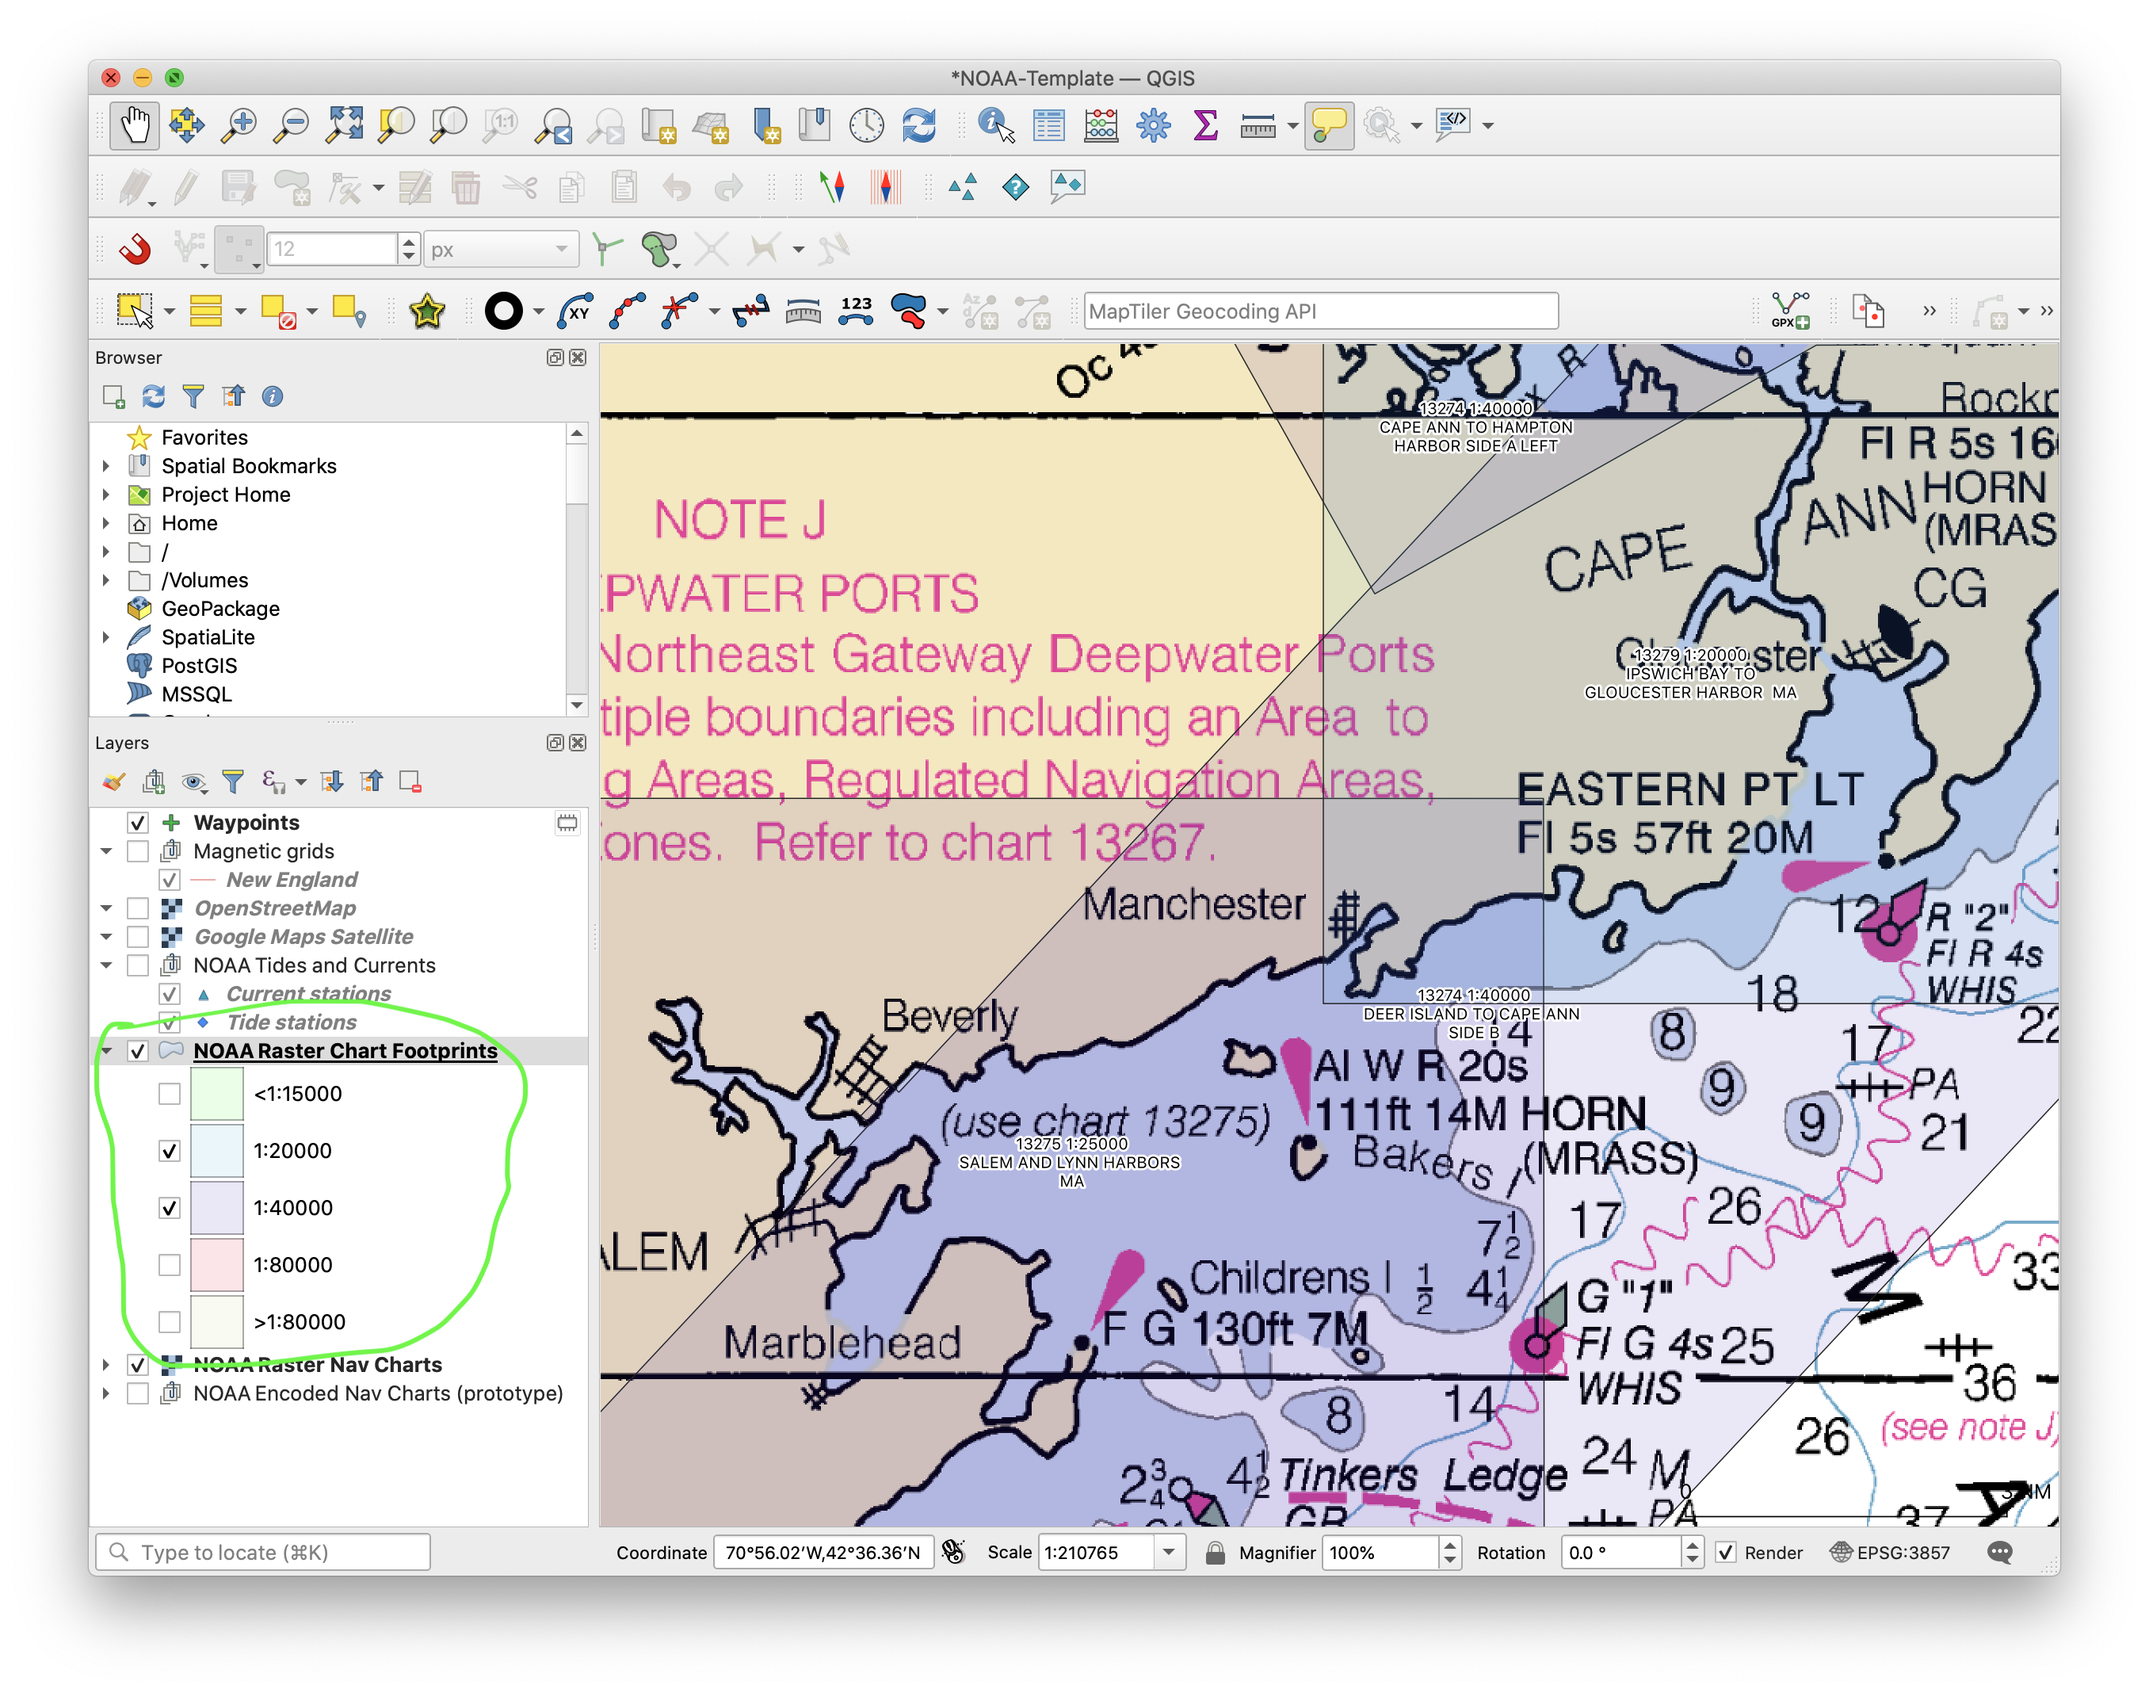
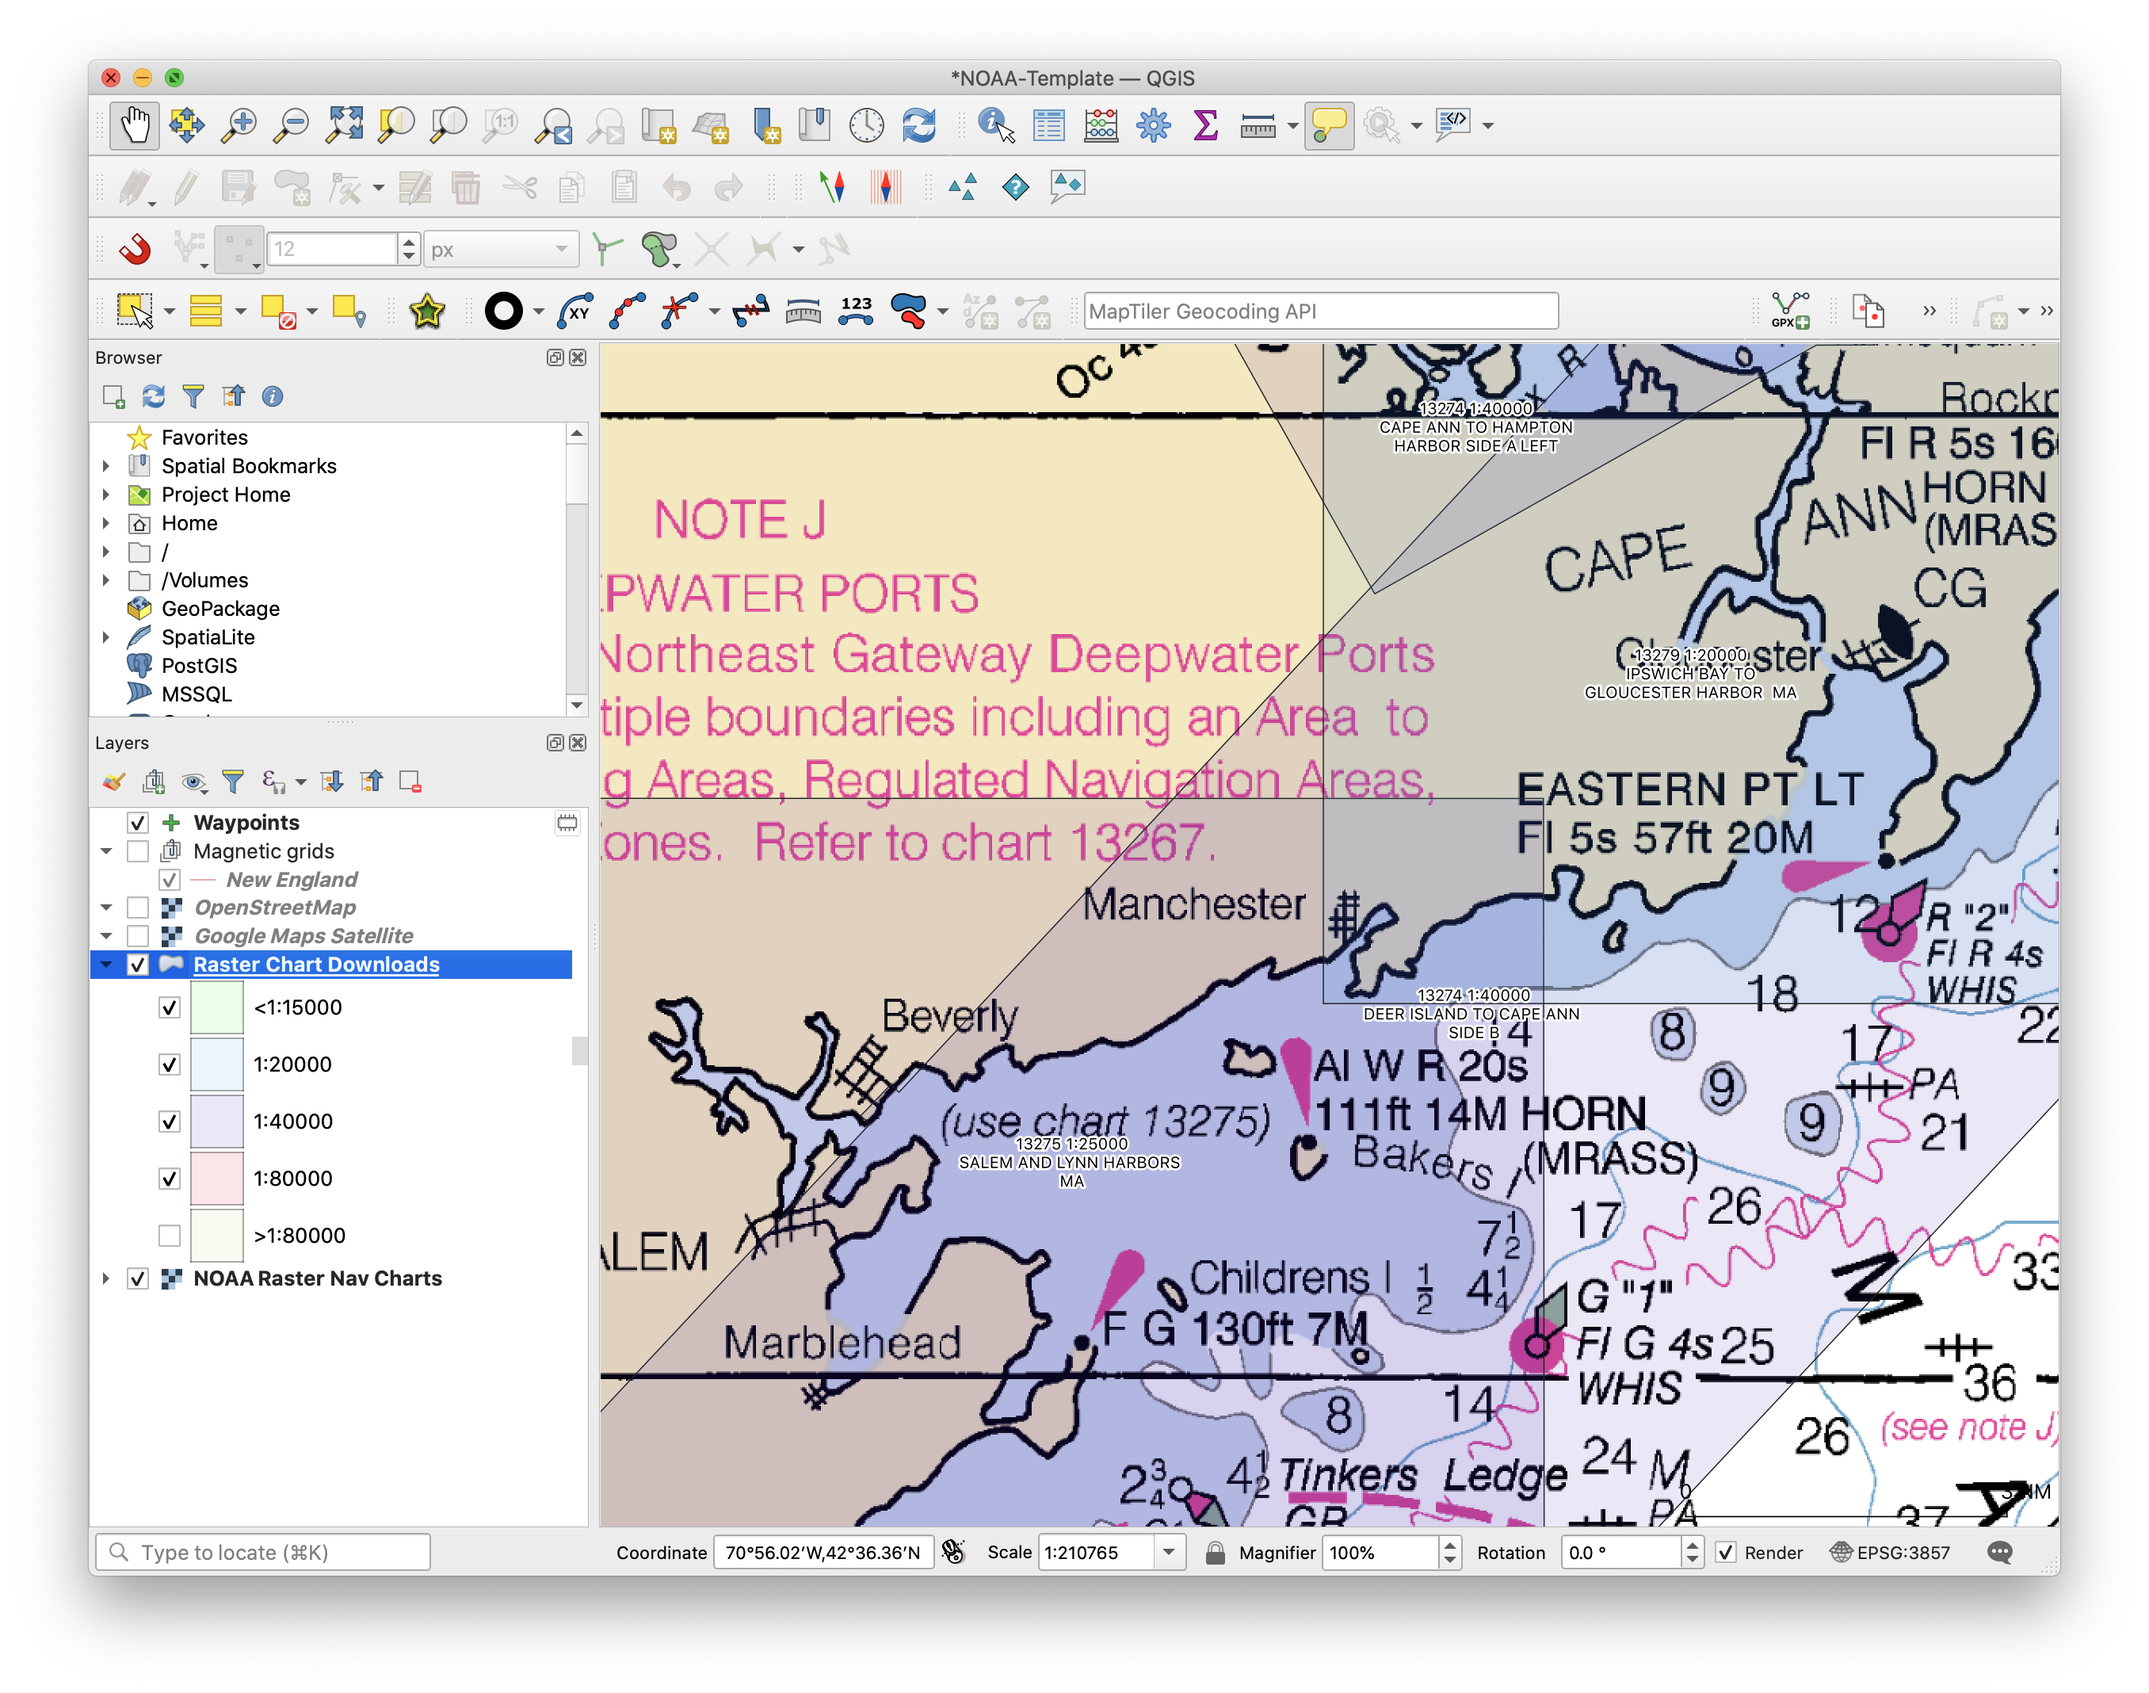
Clarify/adjust documentation for new chart download technique.

Changed region(s): [[0.031, 0.5253, 0.2788, 0.8343]]

diff --git a/index.md b/index.md
@@ -33,9 +33,12 @@ scale bar, and lat/long grid.
 specific NOAA charts in a georeferenced format, with various scales for chart
 preparation.
 
-**[Download NSPN-Workshop-Template-2.qgz](NSPN-Workshop-Template-2.qgz)**
+**[Download NOAA-Template.qgz](NOAA-Template.qgz)**
 
-*Note: at present the template is geared to the New England area.*
+*Note: if the above template does not load, it may be due to an outage in NOAA's
+Seamless RNC web service. If so, [this template](NSPN-Workshop-Template-2.qgz)
+can be used instead although it is limited to the New England area.*
+
 
 ## Quick guide to making raster charts
 
@@ -122,9 +125,12 @@ mouse to move it around. You can also drag the map without clicking by holding
 down the spacebar at the same time, which is useful when you're using a tool
 other than the Pan tool.
 
-On a mouse that has a scroll wheel, the wheel lets you zoom in and out.
-On trackpads, drag two fingers vertically up or down over the map to zoom in
-and out. Hold down Command (Mac) or Alt (Windows) to zoom more slowly.
+To zoom the map in and out, use exactly the same technique you would use to
+scroll any window up (zooming out) or down (zooming out). This technique
+varies from computer to computer. On most trackpads, dragging two fingers up
+or down works for this. On a mouse that has a mechanical scroll wheel, the
+wheel does the trick. Hold down Command (Mac) or Alt (Windows) to zoom more
+slowly.
 
 You can also type a scale directly into the **Scale** control at the bottom of the window.
 
@@ -157,7 +163,7 @@ actually look like.
 over a station will display the station name and a link to its NOAA home page
 where tide or current predictions can be viewed.
 
-- *RNC Chart Downloads* show the locations of various NOAA printed
+- *Raster Chart Downloads* show the locations of various NOAA printed
 charts at different scales. You can use these to preview and download charts
 for inclusion in your maps.
 
@@ -166,16 +172,6 @@ nautical charts, which is automatically downloaded from NOAA web servers. You
 do not need to download any files to see these tiles. The type of the chart that is
 displayed (e.g. general, coastal, harbor) depends on the scale at which you
 are viewing this layer.
-
-(The most reliable version of this layer is packaged in the template. For a higher-resolution
-version using NOAA's Seamless RNC Service, you may download [this layer definition](layers/SeamlessRNCCharts.qlr)
-and add it to your project using **Layer > Add from Layer Definition File...**.
-
-- *NOAA Encoded Nav Charts* layer (CURRENTLY UNAVAILABLE). This is a prototype layer showing NOAA's new
-encoded navigational charts (ENC). Some version of this will eventually replace the
-more familiar raster charts. For now, it's more of a curiosity than something
-useful. It has a number of independent sub-layers that can be switched on and
-off.
 
 The order of the layers is important, as layers on top can obscure layers on
 the bottom. They can be dragged around and reordered. They are also placed in
@@ -248,8 +244,10 @@ wrong area: it will display whatever was originally put into the premade
 layout. Your first step is to make it show the same area as the main map.
 
 Begin by clicking the map to select it, and then open the **Item Properties**
-tab in the panel on the right (circled in the figure below). Your layout
-window should now look something like this:
+tab in the panel on the right (circled in the figure below). (The first time
+you select the map, you may not have an Item Properties tab -- if so, then
+right-click the map and select *Item Properties...* from the popup menu.) Your
+layout window should now look something like this:
 
 ![Layout](guide/images/Layout.png)
 
@@ -322,28 +320,35 @@ the crispest and sharpest possible resolution in your final printout.
 
 You can easily preview, download and include any NOAA chart into QGIS in a way
 that will automatically fit them together seamlessly. Begin the process by
-activating the *RNC Chart Downloads* layer by checking its visibility box, and
-clicking its name.
+activating the *Raster Chart Downloads* layer by checking its visibility box, and
+clicking its name. Click the little triangle to expand the choices of chart scales.
+Your screen should look like this:
+
+![footprints](guide/images/ChartFootprints.png)
 
 Next, use **View > Identify Features** to switch the mouse cursor to the
 *Identify* tool, which lets you interact with specific chart download
-footprints. With this tool, *right-click* the map you want to download. You
-will be given a choice of Preview or Download.
+footprints. With this tool, *right-click* the chart you want to download. You
+will see a menu offering a choice of charts; for each chart, there is a
+sub-choice of Preview Chart or Download Chart Layer:
 
-It's a good idea to preview first to make sure you know what you are getting,
-as the files are large and may take some time to download.
+![identify](guide/images/IdentifyFootprint.png)
 
-Once you download a layer, a box will come up to show you the progress of the download.
-When completed, the downloaded map file will be saved in the same directory
-as your QGIS project and a brand new map layer will be added to your project. 
+It's a good idea to Preview first to make sure you know what you are getting,
+as the chart images are large can take some time to download and process.
 
-At this point, turn OFF the regular NOAA Charts and Footprints layers, and
+When you choose Download, a box will come up to show you the progress of the download.
+You will also have to click through a number of other steps that take a bit of time.
+When completed, the downloaded map file will be saved in a folder alongside your
+your QGIS project named `NOAA-raster/`, and a brand new map layer will be added to your project. 
+
+At this point, turn OFF the regular NOAA Charts and Downloads layers, and
 zoom into the area of interest. Now go about making a print layout in the
 exact same way you did before: the procedure is identical, except that now you
 are using a different layer for the map.
 
-Don't forget to save the project or you will have to add the map again (you do not
-need to download it again, but can use **Layer > Add Layer > Add Raster Layer...**).
+Don't forget to save the project or you will have to add the map again (although it
+will come up much faster the second time).
 
 ### Adding markers or waypoints
 
@@ -427,73 +432,6 @@ Now your map will include the locations of all US wind turbines. You can also
 use advanced features of QGIS like the Identify tool to look up information
 about the turbines like their height, their location, their names and so
 forth. Learning how to do this with QGIS is a worthwhile exercise.
-
-### Downloading your own RNC charts from NOAA
-
-The downloadable charts in this project are currently limited to only certain
-regions. You can also download any NOAA RNC chart from their
-[Interactive Chart Catalog](https://www.charts.noaa.gov/InteractiveCatalog/nrnc.shtml) by
-going to the Paper Charts tab, selecting a chart, and then clicking **RNC** at
-the bottom right. You will get a .zip file that unpacks to include one or more
-`BSB_ROOT/xxxxx_x.KAP` files which can be loaded into QGIS directly. However,
-these downloaded image include non-map stuff like the frame, lat/long tick
-marks and labels, copyright text and blank margins. These get in the way of
-the map if you are working near its edge, or are combining multiple charts
-into one map. They can be removed by cropping the chart as described here.
-
-Zoom and pan the map so that only the portion of the chart you want is
-visible. Resizing the window may help you get the map into the correct shape. 
-Select the chart's layer and choose **Layer > Save As...** from the menu.
-
-Perform these steps:
-
-1. Select the radio button at the top marked *Rendered
-Image*.
-
-1. Click the "..." button to the right of the *File name* field, and
-choose the name of a file to save the cropped chart to.
-
-1. Click the *Map Canvas Extent* button which crops the chart to the size of the map view.
-
-1. Click OK. A new chart layer will be added to your project with the cropped
-chart.
-
-1. Delete the old chart layer.
-
-This technique can be used with multiple charts to allow you to overlap them
-and achieve a seamless combination of your own choosing, by displaying the
-layers for multiple cropped charts together. QGIS automatically positions them
-so the pieces fit together exactly.
-
-Optionally, you can crop a chart to its exact footprint rather than using
-the map window size. This exactly trims off all the border material and works
-better for those charts whose boundary is at an angle. To do this, perform these
-steps:
-
-1. Select the Chart Footprints layer and use **Edit > Select > Select Features**, then click the footprint you want to crop to.
-
-1. Use the command **Raster > Extraction > Clip Raster By Mask Layer...**. In the dialog which follows:
-
-    - select the chart as the *Input layer*
-    - select the footprints layer as the *Mask layer*
-    - check the box marked *Selected features only*
-    - provide the value `255` to the option *Assign a specified nodata value to output bands*.
-    - click *Run*
-
-A new temporary layer named *Clipped (Mask)* will be created that is exactly
-clipped to the footprint. You must now save it using these steps, very similar
-to the cropping technique given above:
-
-1. Select the radio button at the top marked *Rendered
-Image*.
-
-1. Click the "..." button to the right of the *File name* field, and
-choose the name of a file to save the cropped chart to.
-
-1. Click OK. A new chart layer will be added that uses the saved file.
-
-1. Delete the originally imported chart layer and the temporary clipping layer.
-
 
 ### Simplifying the user interface
 
